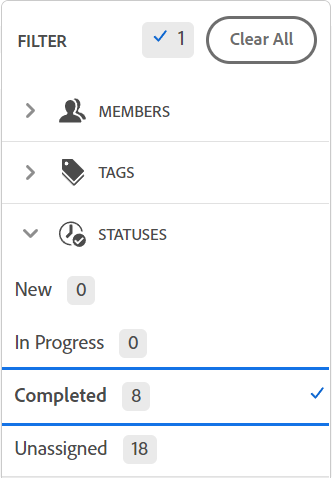
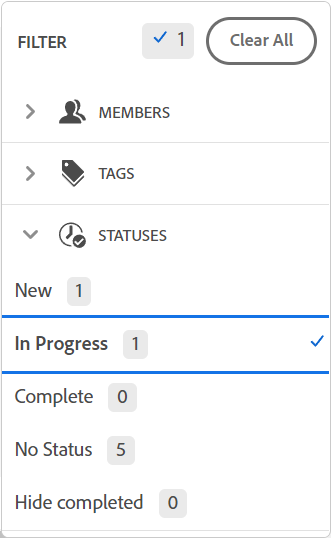
Boards updates and some cleanup

diff --git a/help/quicksilver/people-teams-and-groups/work-directly-with-others/send-direct-messages-to-other-users.md b/help/quicksilver/people-teams-and-groups/work-directly-with-others/send-direct-messages-to-other-users.md
@@ -1,11 +1,14 @@
 ---
+filename: send-direct-messages-to-other-users
+content-type: reference
+product-area: user-management
+navigation-topic: people-teams-and-groups
 title: Send direct messages to other users
-description: Send direct messages to other users
-draft: Probably
+description: Adobe Workfront enables you to quickly and easily send messages that are unrelated to any work item directly to other Workfront users.
 ---
 # Send direct messages to other users
 
-Adobe Workfront enables you to quickly and easily send messages that are unrelated to any work item directly&nbsp;to other Workfront users. Messages sent as described in this section appear in the Updates tab on the user's home&nbsp;page and are visible to all users. For additional information on updates, see [Update work items and view updates](../../workfront-basics/updating-work-items-and-viewing-updates/update-work-items-and-view-updates.md).
+Adobe Workfront enables you to quickly and easily send messages that are unrelated to any work item directly to other Workfront users. Messages sent as described in this section appear in the Updates tab on the user's home page and are visible to all users. For additional information on updates, see [Update work items and view updates](../../workfront-basics/updating-work-items-and-viewing-updates/update-work-items-and-view-updates.md).
 
 The user you are sending the message to receives the following types of notifications when you send a message as described in this section:
 
@@ -25,11 +28,11 @@ You must have the following access to perform the steps in this article:
  </col> 
  <tbody> 
   <tr> 
-   <td role="rowheader">Adobe Workfront plan*</td> 
+   <td role="rowheader"><strong>Adobe Workfront plan*</strong></td> 
    <td> <p>Any</p> </td> 
   </tr> 
   <tr> 
-   <td role="rowheader">Adobe Workfront license*</td> 
+   <td role="rowheader"><strong>Adobe Workfront license*</strong></td> 
    <td> <p>Review or higher</p> </td> 
   </tr> 
  </tbody> 
@@ -44,15 +47,15 @@ You must have the following access to perform the steps in this article:
 
    * Click the linked name of the user as it appears anywhere in the Workfront interface. User names are displayed in many areas of the Workfront interface, such as in a comment made by the user.
 
-1. On the **Updates**&nbsp;tab, click in the text box field.
+1. On the **Updates** tab, click in the text box field.
 
    ![Message user on the Updates tab](assets/message-user-nwe-350x166.png)
 
 1. Type your message.
-1. (Optional) Click in the **Notify**&nbsp;field, then begin typing the name of another user you want to include in this message.  
+1. (Optional) Click in the **Notify** field, then begin typing the name of another user you want to include in this message.  
 
 1. (Optional) Select **Private to my company** to make this message visible only to other users in your company.  
 
 1. Click **Update.** 
-   The message is posted at the top of the list of messages on the **Updates**&nbsp;tab on the user's home page.
+   The message is posted at the top of the list of messages on the **Updates** tab on the user's home page.
 

diff --git a/help/quicksilver/agile/get-started-with-boards/manage-board-columns.md b/help/quicksilver/agile/get-started-with-boards/manage-board-columns.md
@@ -77,6 +77,9 @@ You must have the following access to perform the steps in this article:
    The Settings area appears. The **Column name** lets you know which column you are defining settings for.
 
 1. Enable the **Update field values automatically** policy to change certain field values automatically when a card is moved to this column.
+
+   ![Column settings and policies](assets/boards-column-policies-enabled.png)
+
 1. (Optional) Set a value for the card status:
 
    1. Select the **Status** check box.
@@ -88,19 +91,23 @@ You must have the following access to perform the steps in this article:
    1. Select the **Assignees** check box.
    1. Select an action.
 
-      * **Add on assignees:** The assignee you select is added to the existing list of assignees on a card when it is moved to this column.
-      * **Override assignees:** The assignee you select overrides all other assignees, and becomes the only assignee on a card when it is moved to this column.
+      * **Add on assignees:** The assignees you select are added to the existing list of assignees on a card when it is moved to this column.
+      * **Override assignees:** The assignees you select override all other assignees, and become the only assignees on a card when it is moved to this column.
 
-   1. Select the assignee from the drop-down list. Only members on the board are available to choose from. For more information, see [Add or remove members from a board](/help/quicksilver/agile/get-started-with-boards/add-members-to-board.md).
+   1. Select the assignees from the drop-down list. Only members on the board are available to choose from. For more information, see [Add or remove members from a board](/help/quicksilver/agile/get-started-with-boards/add-members-to-board.md).
+
+      ![Assignees for column](assets/boards-column-assignees.png)
 
 1. (Optional) Set a value for the card tags:
 
    1. Select the **Cards** check box.
    1. Select an action.
 
-      * **Add on tags:** The tag you select is added to the existing list of tags on a card when it is moved to this column.
-      * **Override tags:** The tag you select overrides all other tags, and becomes the only tag on a card when it is moved to this column.
+      * **Add on tags:** The tags you select are added to the existing list of tags on a card when it is moved to this column.
+      * **Override tags:** The tags you select override all other tags, and become the only tags on a card when it is moved to this column.
 
-   1. Select the tag from the drop-down list. Only tags already created in the Tag Manager are available to choose from. For information on adding new tags, see [Add tags](/help/quicksilver/agile/get-started-with-boards/add-tags.md).
+   1. Select the tags from the drop-down list. Only tags already created in the Tag Manager are available to choose from. For information on adding new tags, see [Add tags](/help/quicksilver/agile/get-started-with-boards/add-tags.md).
+
+      ![Tags for column](assets/boards-column-tags.png)
 
 1. Click **Close** to exit the Settings area and view the column and its cards.

diff --git a/help/quicksilver/people-teams-and-groups/work-directly-with-others/view-the-org-chart.md b/help/quicksilver/people-teams-and-groups/work-directly-with-others/view-the-org-chart.md
@@ -8,7 +8,7 @@ description: The organizational chart feature allows you to to view the organiza
 
 # View the organizational chart
 
-The organizational chart feature allows you to to view the organizational chart associated with a particular Adobe Workfront user.&nbsp;Organizational charts are a great way to visualize the structure of a specific department.
+The organizational chart feature allows you to to view the organizational chart associated with a particular Adobe Workfront user. Organizational charts are a great way to visualize the structure of a specific department.
 
 ## Access requirements
 
@@ -21,11 +21,11 @@ You must have the following access to perform the steps in this article:
  </col> 
  <tbody> 
   <tr> 
-   <td role="rowheader">Adobe Workfront plan*</td> 
+   <td role="rowheader"><strong>Adobe Workfront plan*</strong></td> 
    <td> <p>Any</p> </td> 
   </tr> 
   <tr> 
-   <td role="rowheader">Adobe Workfront license*</td> 
+   <td role="rowheader"><strong>Adobe Workfront license*</strong></td> 
    <td> <p>Review or higher</p> </td> 
   </tr> 
  </tbody> 
@@ -38,5 +38,5 @@ You must have the following access to perform the steps in this article:
 1. Click the **Main Menu** icon ![](assets/main-menu-icon.png) in the upper-right corner of Adobe Workfront, then click your user name next to your profile picture.
 
 1. In the left panel, click **Org Chart**.  
-   ![](assets/org-chart-350x214.png)
+   ![Organization chart](assets/org-chart-350x214.png)
 

diff --git a/help/quicksilver/agile/get-started-with-boards/connected-cards.md b/help/quicksilver/agile/get-started-with-boards/connected-cards.md
@@ -10,11 +10,12 @@ description: You can add a card on your board that is connected to existing task
 
 You can add a card on your board that is connected to existing tasks and issues in Workfront.
 
-When the following information is updated in one location, it is automatically updated in the other location:
+When the following information is updated for the card in one location, it is automatically updated in the other location:
 
 * Name
 * Description
 * Assignees
+* Status
 
 ## Access requirements
 
@@ -97,7 +98,8 @@ You must have the following access to perform the steps in this article:
   </tr>
   <tr>
    <td role="rowheader"><strong>Status</strong></td>
-   <td><p>Select a status for the card. If you click <strong>Mark Complete</strong> at the top of the card, the status automatically changes to Complete.</p></td>
+   <td><p>Select a status for the card. The defaults are New, In Progress, and Complete, but any custom statuses defined for the item in Workfront are also available.</p>
+   <p>If you click <strong>Mark Complete</strong> at the top of the card, the status automatically changes to Complete.</p></td>
   </tr>
   <tr>
    <td role="rowheader"><strong>Due date</strong></td>

diff --git a/help/quicksilver/agile/get-started-with-boards/add-tags.md b/help/quicksilver/agile/get-started-with-boards/add-tags.md
@@ -3,7 +3,7 @@ filename: add-tags
 product-area: agile-and-teams
 navigation-topic: get-started-with-boards
 title: Add tags
-description: You can add tags to cards to visually show that they are similar. Then you can filter by those tags to display related cards. Tags are not shared between boards.
+description: You can add tags to cards to visually show that they are similar. Then you can filter by those tags to display related cards.
 ---
 
 # Add tags
@@ -21,11 +21,11 @@ You must have the following access to perform the steps in this article:
  </col> 
  <tbody> 
   <tr> 
-   <td role="rowheader">Adobe Workfront plan*</td> 
+   <td role="rowheader"><strong>Adobe Workfront plan*</strong></td> 
    <td> <p>Any</p> </td> 
   </tr> 
   <tr> 
-   <td role="rowheader">Adobe Workfront license*</td> 
+   <td role="rowheader"><strong>Adobe Workfront license*</strong></td> 
    <td> <p>Request or higher</p> </td> 
   </tr> 
  </tbody> 

diff --git a/help/quicksilver/agile/get-started-with-boards/add-members-to-board.md b/help/quicksilver/agile/get-started-with-boards/add-members-to-board.md
@@ -21,11 +21,11 @@ You must have the following access to perform the steps in this article:
  </col> 
  <tbody> 
   <tr> 
-   <td role="rowheader">Adobe Workfront plan*</td> 
+   <td role="rowheader"><strong>Adobe Workfront plan*</strong></td> 
    <td> <p>Any</p> </td> 
   </tr> 
   <tr> 
-   <td role="rowheader">Adobe Workfront license*</td> 
+   <td role="rowheader"><strong>Adobe Workfront license*</strong></td> 
    <td> <p>Request or higher</p> </td> 
   </tr> 
  </tbody> 

diff --git a/help/quicksilver/agile/get-started-with-boards/create-edit-board.md b/help/quicksilver/agile/get-started-with-boards/create-edit-board.md
@@ -19,11 +19,11 @@ You must have the following access to perform the steps in this article:
  <col> 
  <tbody> 
   <tr> 
-   <td role="rowheader">Adobe Workfront plan*</td> 
+   <td role="rowheader"><strong>Adobe Workfront plan*</strong></td> 
    <td> <p>Any</p> </td> 
   </tr> 
   <tr> 
-   <td role="rowheader">Adobe Workfront license*</td> 
+   <td role="rowheader"><strong>Adobe Workfront license*</strong></td> 
    <td> <p>Request or higher</p> </td> 
   </tr> 
  </tbody> 

diff --git a/help/quicksilver/agile/get-started-with-boards/delete-board-items.md b/help/quicksilver/agile/get-started-with-boards/delete-board-items.md
@@ -19,11 +19,11 @@ You must have the following access to perform the steps in this article:
  <col> 
  <tbody> 
   <tr> 
-   <td role="rowheader">Adobe Workfront plan*</td> 
+   <td role="rowheader"><strong>Adobe Workfront plan*</strong></td> 
    <td> <p>Any</p> </td> 
   </tr> 
   <tr> 
-   <td role="rowheader">Adobe Workfront license*</td> 
+   <td role="rowheader"><strong>Adobe Workfront license*</strong></td> 
    <td> <p>Request or higher</p> </td> 
   </tr> 
  </tbody> 

diff --git a/help/quicksilver/agile/get-started-with-boards/use-boards-page.md b/help/quicksilver/agile/get-started-with-boards/use-boards-page.md
@@ -25,11 +25,11 @@ You must have the following access to perform the steps in this article:
  <col> 
  <tbody> 
   <tr> 
-   <td role="rowheader">Adobe Workfront plan*</td> 
+   <td role="rowheader"><strong>Adobe Workfront plan*</strong></td> 
    <td> <p>Any</p> </td> 
   </tr> 
   <tr> 
-   <td role="rowheader">Adobe Workfront license*</td> 
+   <td role="rowheader"><strong>Adobe Workfront license*</strong></td> 
    <td> <p>Request or higher</p> </td> 
   </tr> 
  </tbody> 

diff --git a/help/quicksilver/people-teams-and-groups/tips-tricks-and-troubleshooting/tips-tricks-and-troubleshooting-grps.md b/help/quicksilver/people-teams-and-groups/tips-tricks-and-troubleshooting/tips-tricks-and-troubleshooting-grps.md
@@ -4,7 +4,7 @@ content-type: tips-tricks-troubleshooting;reference
 product-area: user-management
 navigation-topic: people-teams-and-groups
 title: Tips, Tricks, and Troubleshooting for People, Teams, and Groups
-description: This section contains the following articles - EDIT ME.
+description: Review these article for troubleshooting tips on People, Teams, and Groups.
 ---
 
 # Tips, Tricks, and Troubleshooting for People, Teams, and Groups

diff --git a/help/quicksilver/agile/get-started-with-boards/filter-search-in-board.md b/help/quicksilver/agile/get-started-with-boards/filter-search-in-board.md
@@ -63,6 +63,8 @@ You must have the following access to perform the steps in this article:
 1. Access the board.
 1. Click the filter icon ![Filter](assets/filter-icon-spectrum-25x25.png), expand the Statuses section, and select the status types you want to see.
 
+   You can also hide completed cards.
+
    ![Filter by status](assets/boards-filter-by-status.png)
 
 ## Filter a board by due date

diff --git a/help/quicksilver/agile/get-started-with-boards/get-started-with-boards.md b/help/quicksilver/agile/get-started-with-boards/get-started-with-boards.md
@@ -3,7 +3,7 @@ filename: _get-started-with-boards
 product-area: agile-and-teams
 navigation-topic: get-started-with-boards
 title: Get started with boards in Adobe Workfront
-description: This section contains the following articles - EDIT ME.
+description: Review these articles to learn how to use boards in Workfront.
 ---
 
 # Get started with boards in Adobe Workfront
